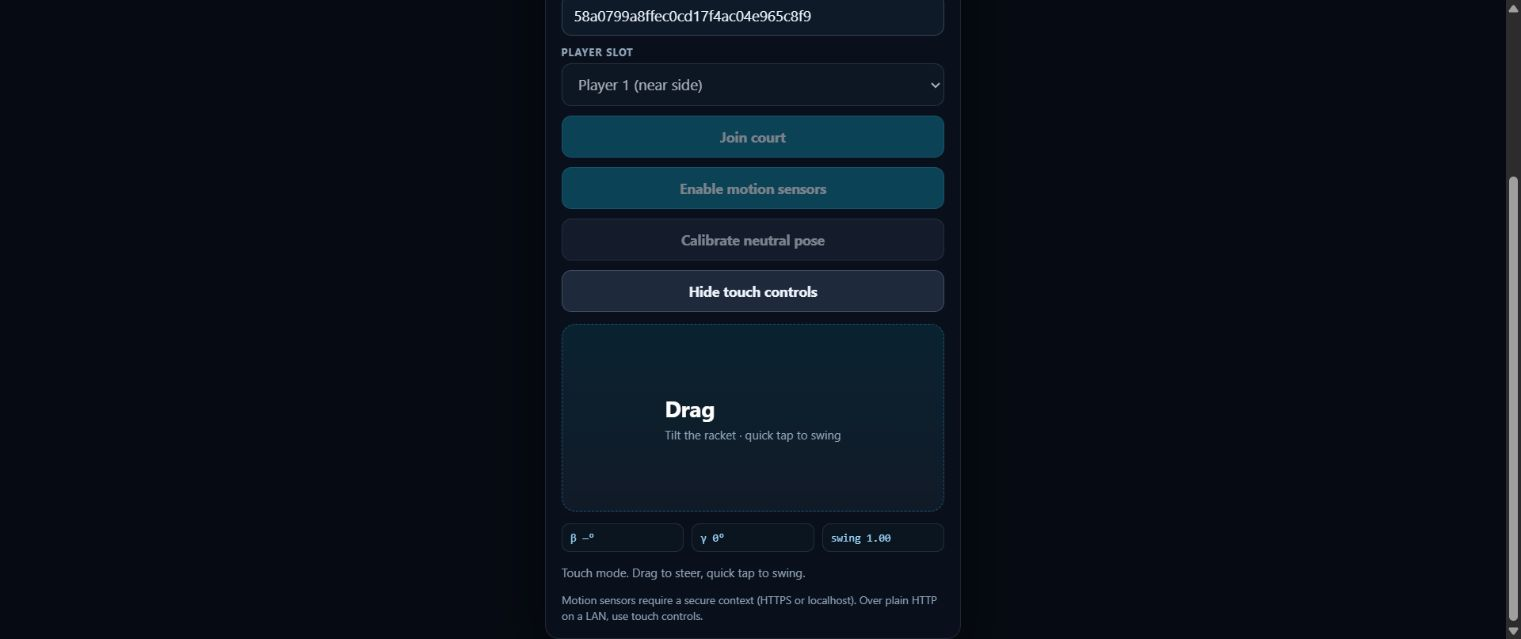
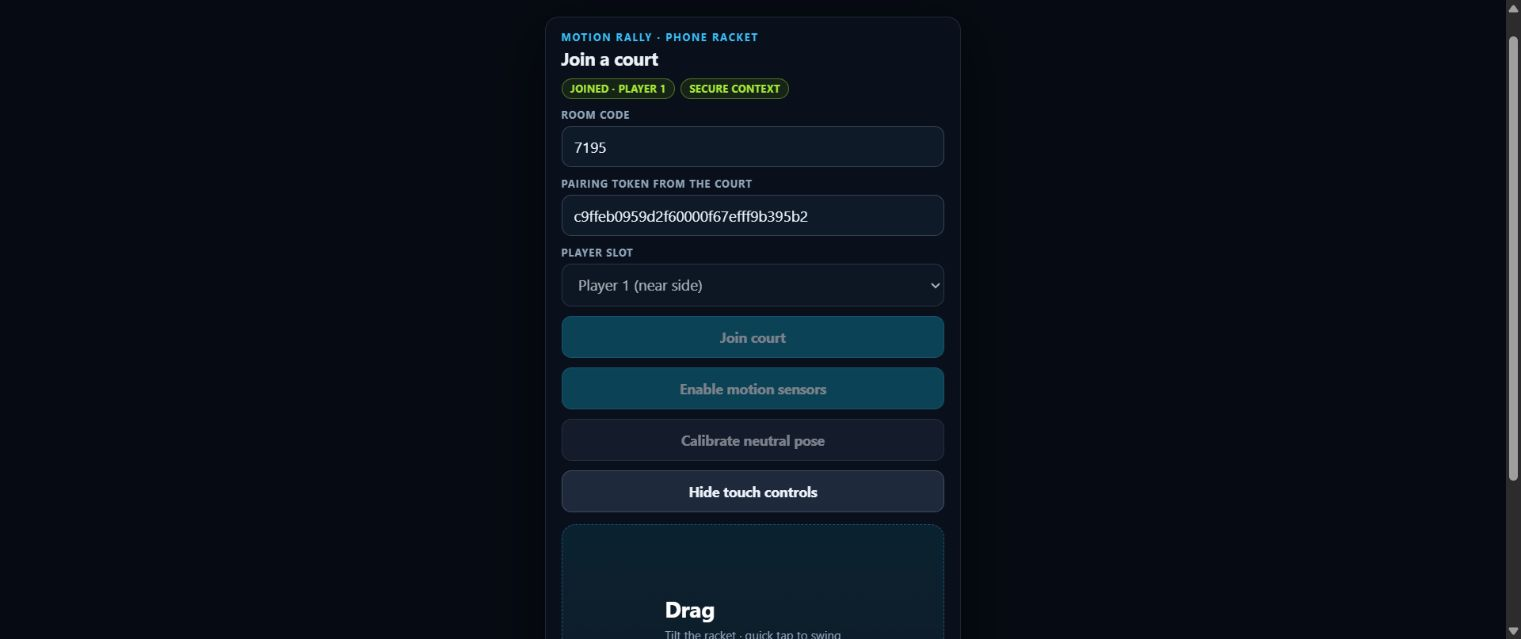
Fix court line segments and wait for both controller slots

diff --git a/public/host.js b/public/host.js
@@ -76,7 +76,7 @@
     state.slots = snapshot.slots ?? state.slots;
     els.score1.textContent = String(snapshot.score[1]);
     els.score2.textContent = String(snapshot.score[2]);
-    els.phase.textContent = snapshot.phase === "point" ? "point" : snapshot.phase === "serve" ? "serve" : "rally";
+    els.phase.textContent = snapshot.waiting ? 'waiting for two players' : snapshot.phase === "point" ? "point" : snapshot.phase === "serve" ? "serve" : "rally";
     els.rally.textContent = `Rally ${snapshot.rally}`;
     applySlots(state.slots);
     pushFrame(snapshot);
@@ -157,11 +157,15 @@
     const lineMaterial = new THREE.LineBasicMaterial({ color: 0xd7e5ef, transparent: true, opacity: 0.85 });
     const lines = [];
     const w = 8.23 / 2, l = 23.77 / 2;
-    lines.push(-w, 0.005, -l, w, 0.005, -l, w, 0.005, l, -w, 0.005, l, -w, 0.005, -l);
+    const segment = (x1, z1, x2, z2) => lines.push(x1, 0.005, z1, x2, 0.005, z2);
+    segment(-w, -l, w, -l);
+    segment(w, -l, w, l);
+    segment(w, l, -w, l);
+    segment(-w, l, -w, -l);
     lines.push(-w, 0.005, 0, w, 0.005, 0); // net line
     for (const z of [-6.4, 6.4]) lines.push(-w, 0.005, z, w, 0.005, z);
     lines.push(0, 0.005, -6.4, 0, 0.005, 6.4);
-    for (const z of [-6.4, 6.4]) lines.push(0, 0.005, z, 0, 0.005, z < 0 ? -l : l);
+    for (const z of [-l, l]) segment(0, z, 0, z + (z < 0 ? 0.2 : -0.2));
     const geometry = new THREE.BufferGeometry();
     geometry.setAttribute("position", new THREE.Float32BufferAttribute(lines, 3));
     scene.add(new THREE.LineSegments(geometry, lineMaterial));

diff --git a/README.md b/README.md
@@ -75,7 +75,7 @@ Without explicit `ENABLE_TTS=1` and a key the server reports `commentary.enabled
 
 | Check | Result |
 | --- | --- |
-| `npm test` | 27 passed |
+| `npm test` | 28 passed |
 | Deterministic replay | two runs of 600 steps produce identical snapshots |
 | Pairing | host + two controllers join; duplicate slot rejected |
 | Disconnect / stale | presence updates; host close closes the room |
@@ -117,3 +117,7 @@ MIT — see [LICENSE](LICENSE).
 - Audio receipt is surfaced honestly. Automatic audio playback is not implemented; text commentary remains the verified path.
 
 The earlier screenshot/load-probe values describe version 0.1.0. Current pairing/security regressions and local UI checks are recorded separately. No hardware sensor or external provider latency claim is made.
+
+## Visual correction in 0.2.1
+
+Court perimeter vertices are emitted as explicit segment pairs, removing accidental diagonal connections. The server waits for both controller slots before advancing match physics or scoring. The UI states that it is waiting. Browser screenshots were refreshed after these corrections.
